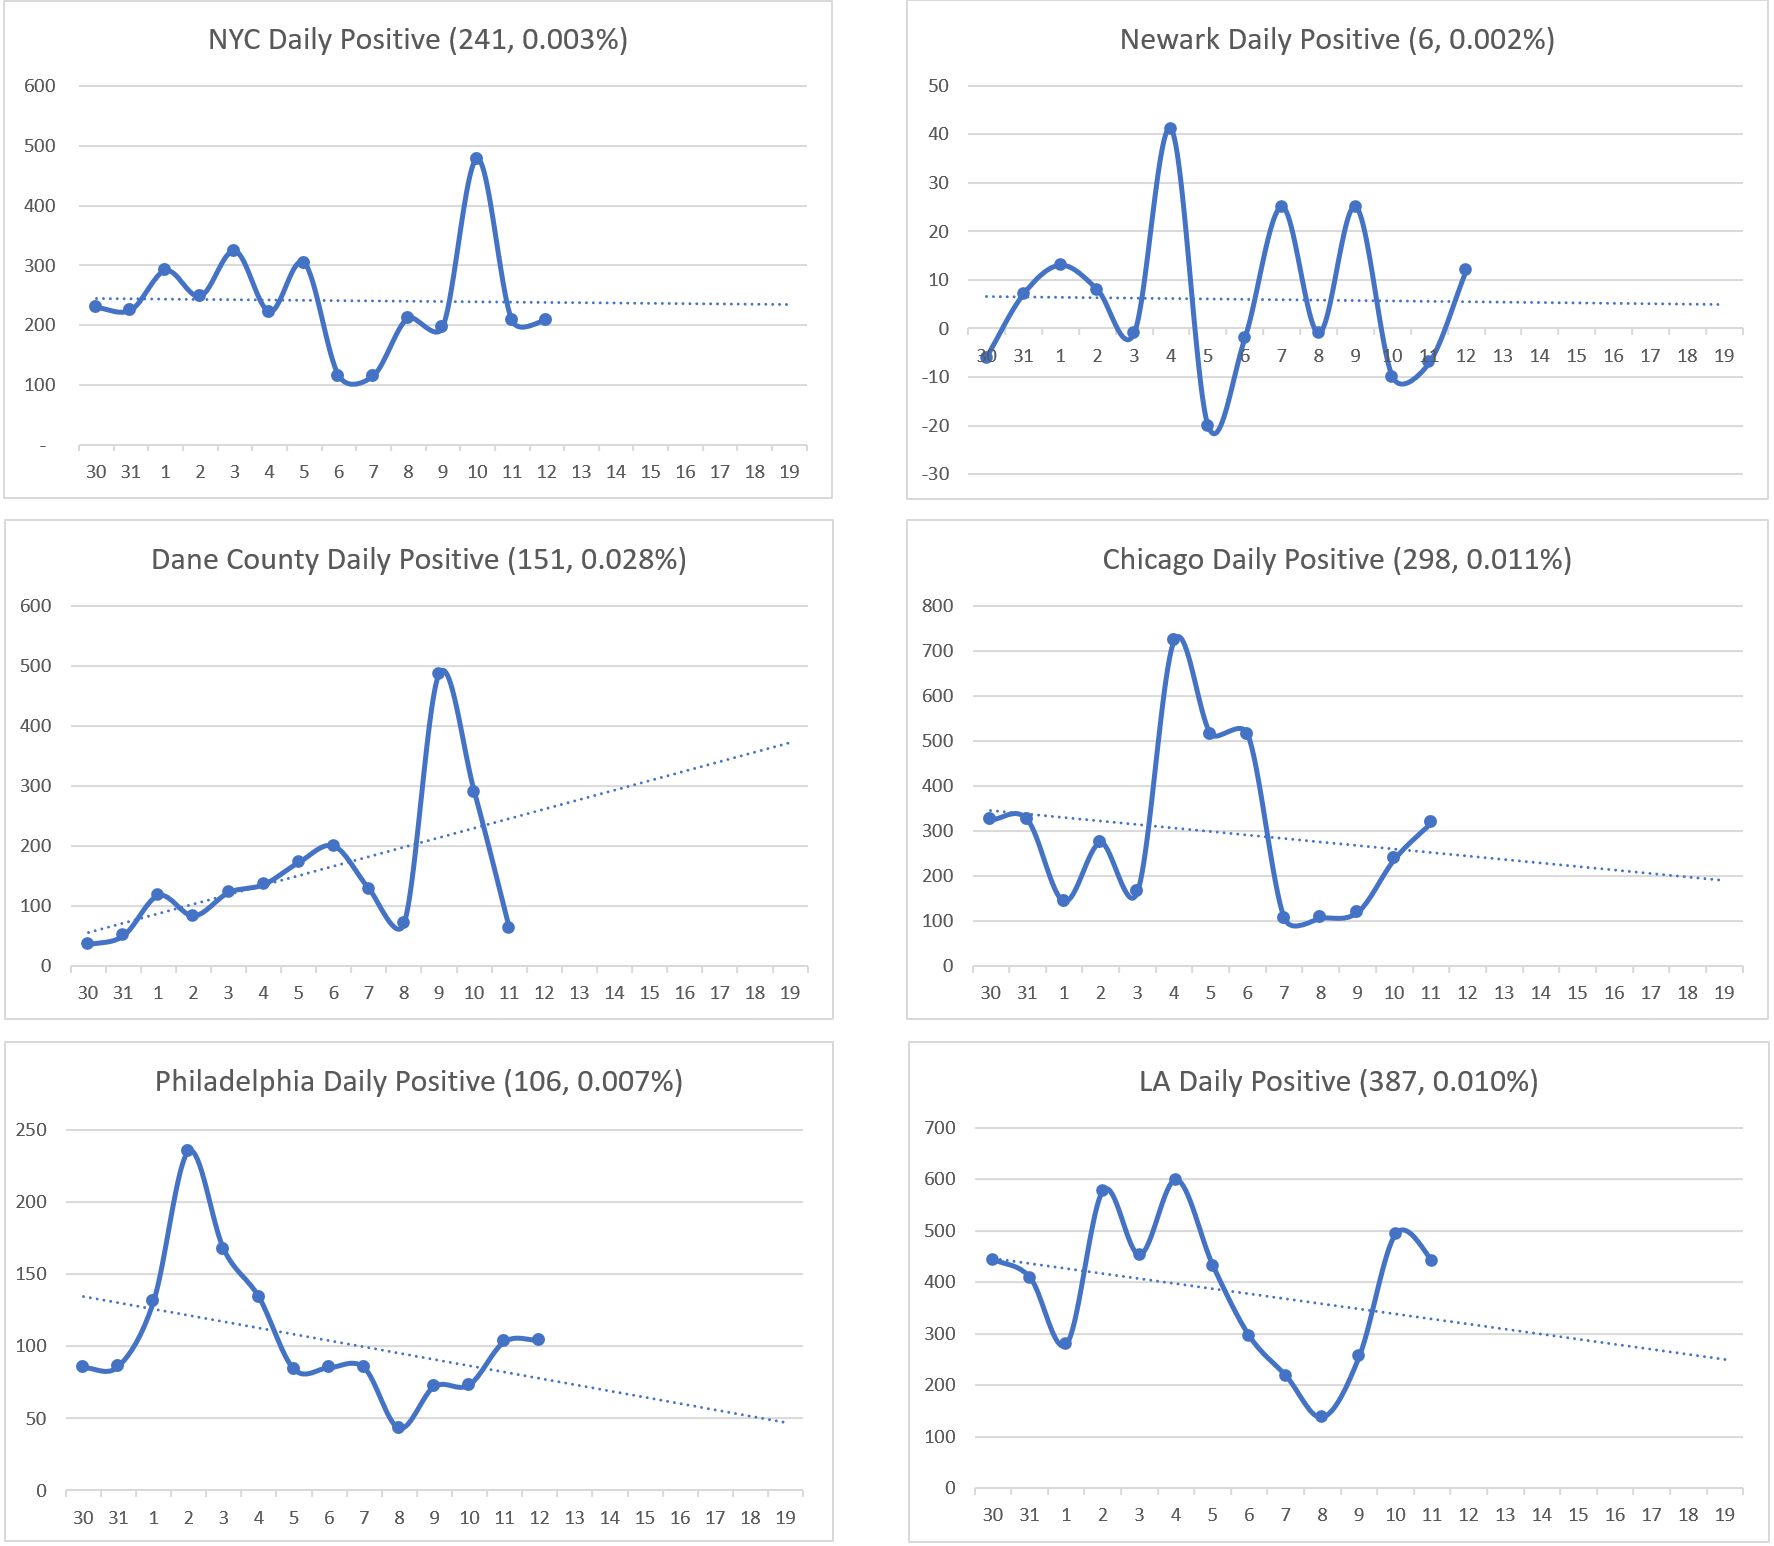
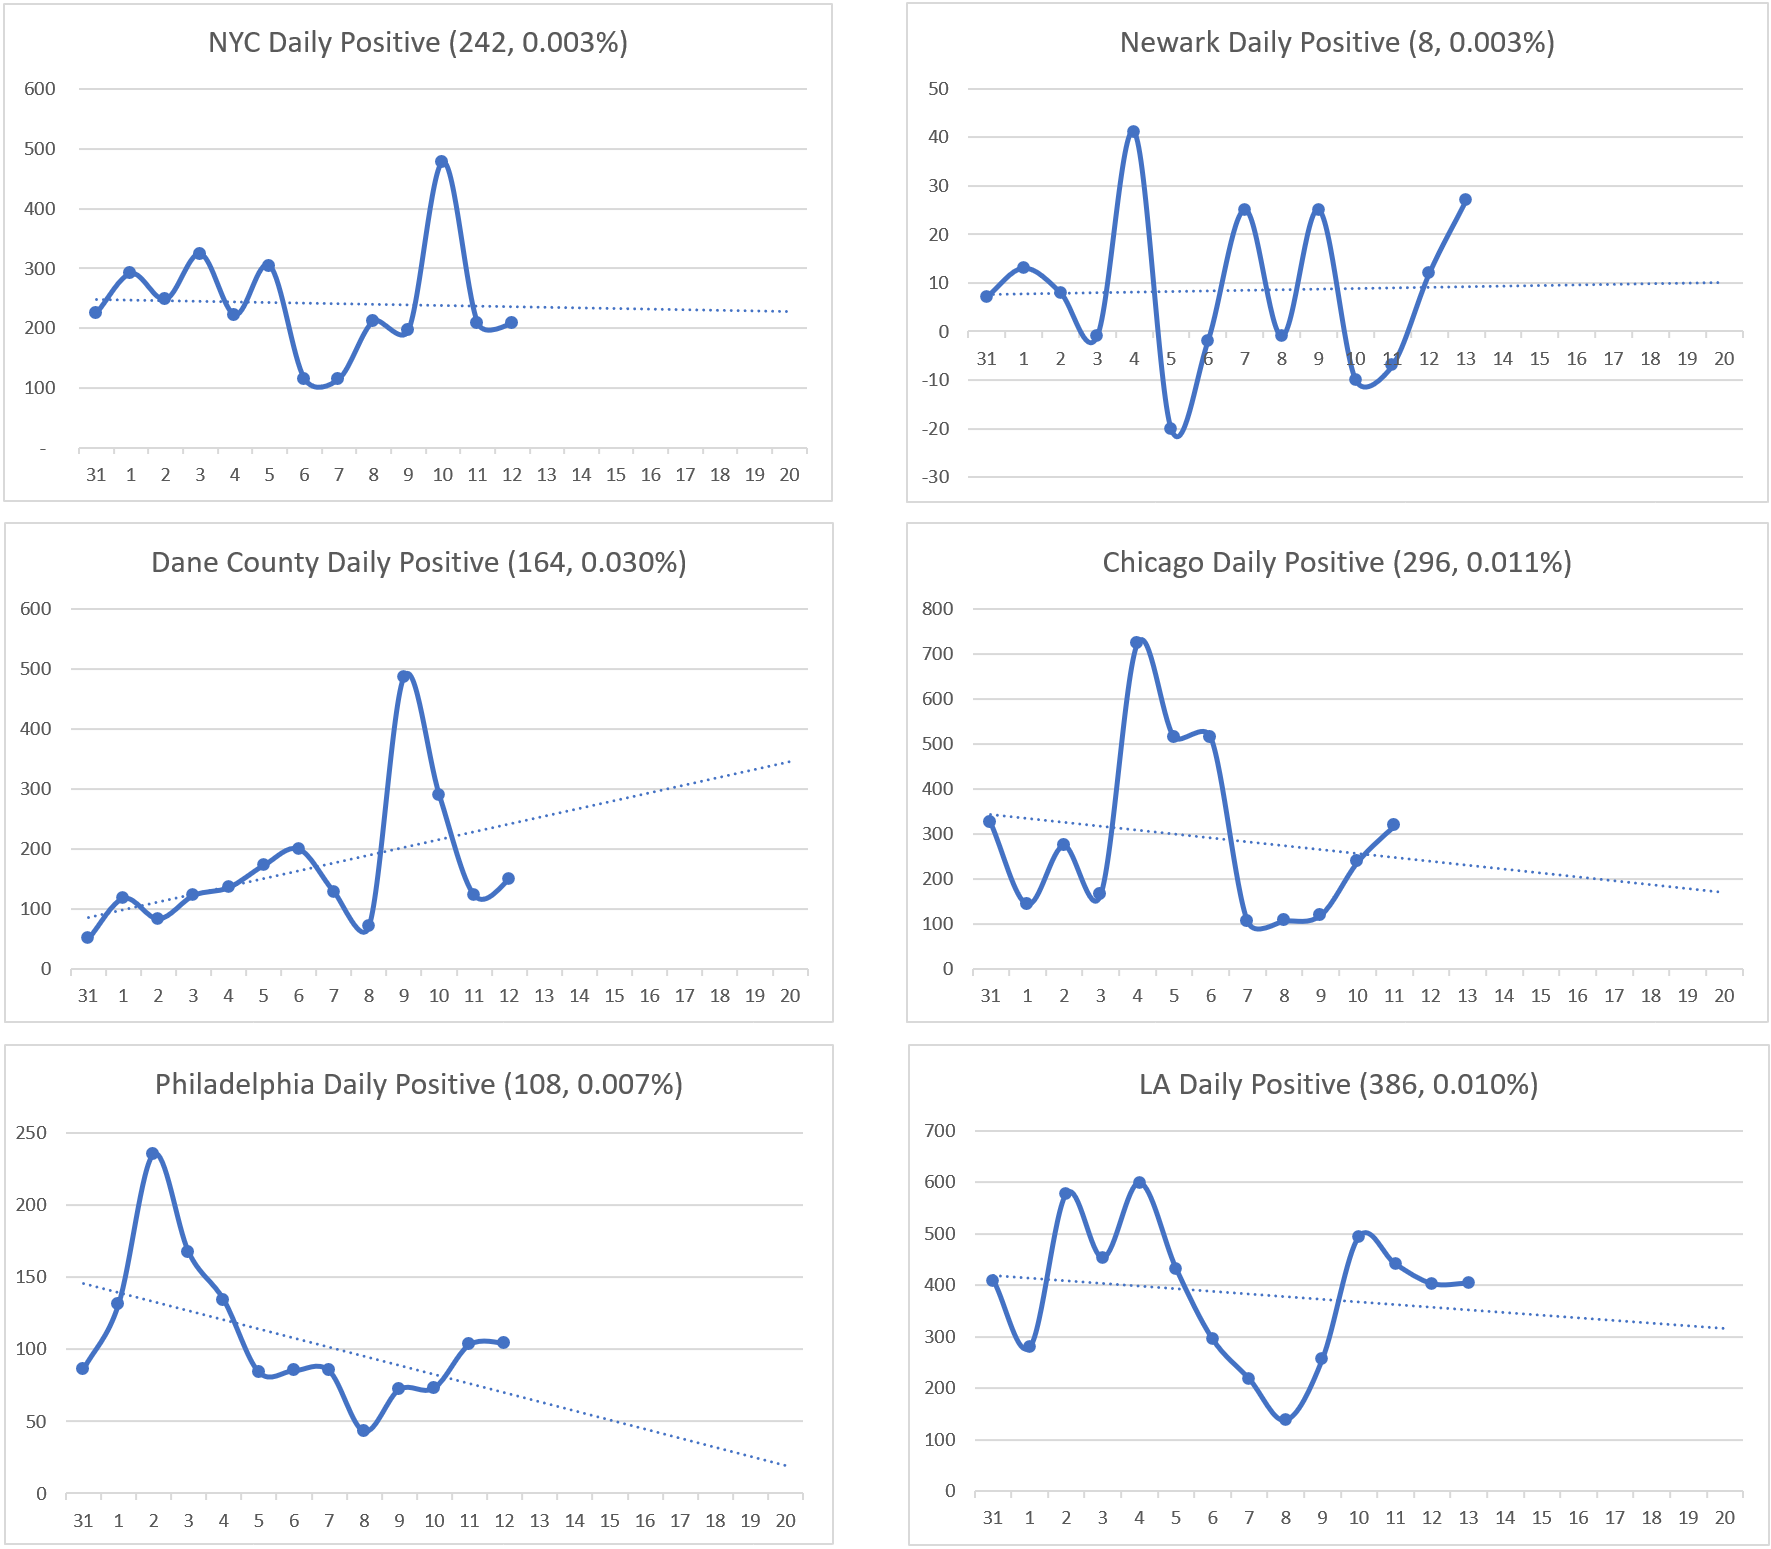
update 9/13 status

diff --git a/index.html b/index.html
@@ -19,7 +19,7 @@
 
 <body class="container-fluid">
 	<h1> CoronaV for Friends</h1>
-	<h2> Data updated at Sep 12 2020 EST 20:35</h2>
+	<h2> Data updated at Sep 13 2020 EST 21:40</h2>
 	<hr>
 	<main>
 		<div class="row">
